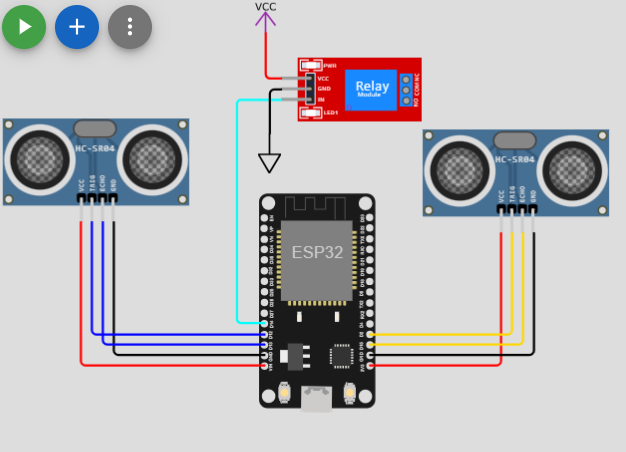
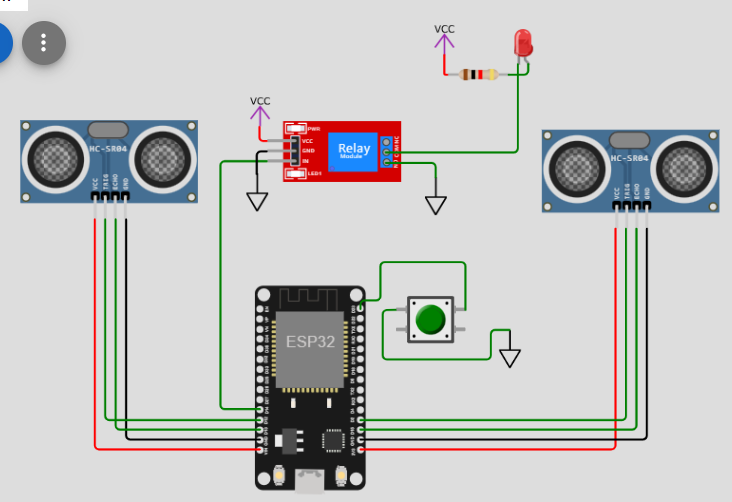
Add files via upload

diff --git a/README.md b/README.md
@@ -1,66 +1,102 @@
 
-#define I2C_ADDR    0x27
 
-const int Trigger = 12;  //sisterna
-const int Echo = 13;   //sisterna 
-const int Trigger2 = 2;   //tinaco
-const int Echo2 = 15;    //tinaco 
+# PROYECTO DE DIPLOMADO AUTOMATIZACION LLENADO DE UN TINACO 
+
+
+## CODIGO 
+
+```
+// Se declaran las variables a utilizar  
+const int Trig_sisterna = 12; //sisterna 
+const int Echo_sisterna = 13; //sisterna 
+const int Trig_tinaco = 2; //tinaco 
+const int Echo_sisterna_tinaco = 15; //tinaco
 int ledPin = 14; // Pin del LED
-
-
+int btn = 23;
 
 void setup() {
 
-  Serial.begin(9600);//iniciailzamos la comunicación
-  pinMode(ledPin, OUTPUT);
-  pinMode(Trigger, OUTPUT); //pin como salida
-  pinMode(Echo, INPUT);  //pin como entrada
-  pinMode(Trigger2, OUTPUT); //pin como salida
-  pinMode(Echo2, INPUT);  //pin como entrada
-  digitalWrite(Trigger, LOW);//Inicializamos el pin con 0
-  digitalWrite(Trigger2, LOW);//Inicializamos el pin con 0
+// Se define el modo del pin a utilizar 
+
+Serial.begin(9600); //iniciailzamos la comunicación 
+pinMode(ledPin, OUTPUT);
+pinMode (Trig_sisterna, OUTPUT); //pin como salida
+pinMode(Echo_sisterna, INPUT); //pin como entrada 
+pinMode(Trig_tinaco, OUTPUT); //pin como salida
+pinMode(Echo_sisterna_tinaco, INPUT); //pin como entrada
+digitalWrite (Trig_sisterna, LOW);//Inicializamos el pin con 0 
+digitalWrite(Trig_tinaco, LOW);//Inicializamos el pin con 0
+pinMode(btn, INPUT_PULLUP);
 
 }
 
-void loop()
-{
+void loop() {
 
-  long tsis; //timepo que demora en llegar el heco
-  long dsis; //distancia en centimetros
+long t_sisterna; //timepo que demora en llegar el hecho 
+long d_sisterna; //terna/distancia en centimetros
 
-  long t2; //timepo que demora en llegar el heco
-  long d2; //distancia en centimetros
+long t_tinaco; //timepo que demora en llegar el hecho
+long d_tinaco; //distancia en centimetros
+
+// Tiempo se envio de señal 
+
+//Para el primer sensor 
+
+digitalWrite (Trig_sisterna, HIGH); 
+delayMicroseconds(10); //Enviamos un pulso de 10us
+digitalWrite (Trig_sisterna, LOW);
+
+//para segundo sensor
+digitalWrite(Trig_tinaco, HIGH); 
+delayMicroseconds(10); //Enviamos un pulso de 10us
+digitalWrite(Trig_tinaco, LOW);
+
+t_sisterna = pulseIn(Echo_sisterna, HIGH); //obtenemos el ancho del pulso 
+d_sisterna = t_sisterna/59; //escalamos el tiempo a una distancia en cm
+t_tinaco = pulseIn(Echo_sisterna_tinaco, HIGH); //obtenemos el ancho del pulso 
+d_tinaco = t_tinaco/59; //escalamos el tiempo a una distancia en cm
 
 
+// si la sisterna esta llena y el tinaco vacio se prende bomba 
+// 0| 0
+if (d_sisterna<=200 && d_tinaco<=200){
+  digitalWrite (ledPin , 0); 
+}
 
-  digitalWrite(Trigger, HIGH);
-  delayMicroseconds(10);          //Enviamos un pulso de 10us
-  digitalWrite(Trigger, LOW);
+// si la sisterna esta vacia y el tinaco vacio no se prende la bomba
+// 0|1
+else if (d_sisterna<=200 && d_tinaco>=200){
+  digitalWrite(ledPin, 0);  
 
-  //para segundo sensor 
+}
 
-  digitalWrite(Trigger2, HIGH);
-  delayMicroseconds(10);          //Enviamos un pulso de 10us
-  digitalWrite(Trigger2, LOW);
-  
-  tsis = pulseIn(Echo, HIGH); //obtenemos el ancho del pulso
-  dsis = tsis/59;             //escalamos el tiempo a una distancia en cm
+// si la sisterna esta vacio y el tinaco lleno no se prende la bomba
+// 1|0
+else if (d_sisterna>=200 && d_tinaco<=200){
+  digitalWrite(ledPin, 1);  
+}
 
-  t2 = pulseIn(Echo2, HIGH); //obtenemos el ancho del pulso
-  d2 = t2/59;             //escalamos el tiempo a una distancia en cm
-  
- if (dsis > 200 && d2 <100){
-        digitalWrite (ledPin , HIGH);     //Si el sensor detecta una distancia menor a 20 cm enciende el LED Rojo
-      
-    }
+  // si la sisterna esta llena y la tinaco esta lleno no se prende la bomba 
+  //1|1
+else if (d_sisterna>=200 && d_tinaco>=200){
+  digitalWrite(ledPin, 0);
 
-  else if ()
+}
+
+  // si se apreta el boton se apaga 
+else if (digitalRead(btn) == 0){
+  digitalWrite(ledPin, 1);
+
+}
+
+else{
+  digitalWrite(ledPin,0);
+}
 
 
 }
 
+```
 
-
-![](https://github.com/AxelMld/proyecto/blob/main/conexion.png?raw=true)
-
-
+## CONEXION 
+![]()
